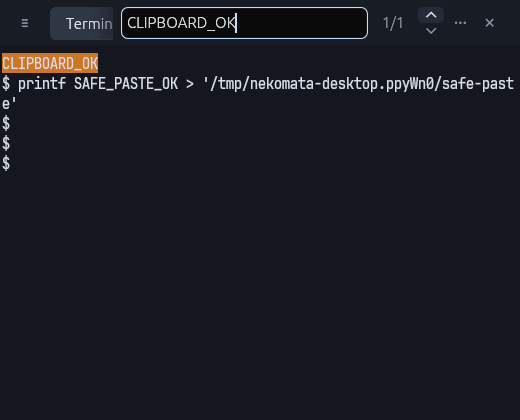
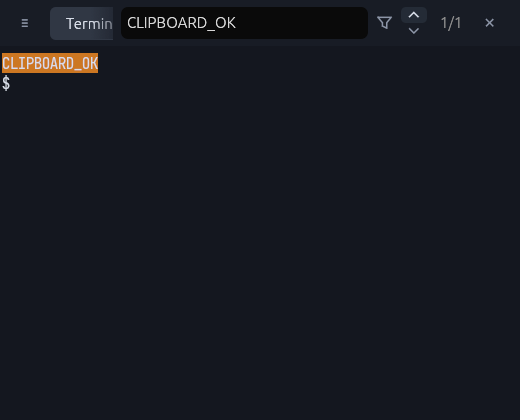
feat: group search filters beside the query
Use a funnel icon to make the search conditions discoverable and order the toolbar as query, filter, navigation, result index and close. Preserve stacked chevrons and hover-only button backgrounds.

diff --git a/src/app.rs b/src/app.rs
@@ -873,6 +873,23 @@ impl App {
             if entry.lost_focus() && ui.input(|input| input.key_pressed(egui::Key::Enter)) {
                 navigate = Some(!ui.input(|input| input.modifiers.shift));
             }
+            let options = search_icon_button(ui, SearchIcon::Options);
+            egui::Popup::menu(&options).show(|ui| {
+                ui.checkbox(&mut pane.search_ignore_case, "Ignore case");
+                ui.checkbox(&mut pane.search_regex, "Regex");
+            });
+            ui.add_enabled_ui(!pane.search_query.is_empty(), |ui| {
+                ui.vertical(|ui| {
+                    ui.set_width(24.0);
+                    ui.spacing_mut().item_spacing.y = 0.0;
+                    if search_icon_button(ui, SearchIcon::Previous).clicked() {
+                        navigate = Some(false);
+                    }
+                    if search_icon_button(ui, SearchIcon::Next).clicked() {
+                        navigate = Some(true);
+                    }
+                });
+            });
             {
                 let search = pane.session.search.search.lock().unwrap();
                 let response = ui.add_sized(
@@ -897,23 +914,6 @@ impl App {
                     response.on_hover_text("Searching…");
                 }
             }
-            ui.add_enabled_ui(!pane.search_query.is_empty(), |ui| {
-                ui.vertical(|ui| {
-                    ui.set_width(24.0);
-                    ui.spacing_mut().item_spacing.y = 0.0;
-                    if search_icon_button(ui, SearchIcon::Previous).clicked() {
-                        navigate = Some(false);
-                    }
-                    if search_icon_button(ui, SearchIcon::Next).clicked() {
-                        navigate = Some(true);
-                    }
-                });
-            });
-            let options = search_icon_button(ui, SearchIcon::Options);
-            egui::Popup::menu(&options).show(|ui| {
-                ui.checkbox(&mut pane.search_ignore_case, "Ignore case");
-                ui.checkbox(&mut pane.search_regex, "Regex");
-            });
             close |= search_icon_button(ui, SearchIcon::Close).clicked();
         });
         if close {
@@ -1501,10 +1501,18 @@ fn search_icon_button(ui: &mut egui::Ui, icon: SearchIcon) -> egui::Response {
             ));
         }
         SearchIcon::Options => {
-            for x in [-4.0, 0.0, 4.0] {
-                ui.painter()
-                    .circle_filled(center + Vec2::new(x, 0.0), 1.0, color);
-            }
+            ui.painter().add(egui::Shape::line(
+                vec![
+                    center + Vec2::new(-6.0, -5.0),
+                    center + Vec2::new(6.0, -5.0),
+                    center + Vec2::new(2.0, 0.0),
+                    center + Vec2::new(2.0, 5.0),
+                    center + Vec2::new(-2.0, 3.0),
+                    center + Vec2::new(-2.0, 0.0),
+                    center + Vec2::new(-6.0, -5.0),
+                ],
+                stroke,
+            ));
         }
         SearchIcon::Close => {
             for direction in [-1.0, 1.0] {

diff --git a/README.md b/README.md
@@ -80,7 +80,7 @@ flake の対象は `aarch64-darwin`、`x86_64-linux`、`aarch64-linux` です。
 
 ## スクロールバック検索
 
-`≡` → `Find in scrollback`、コマンドパレット、または検索ショートカットで、タブバー右側に検索欄を開きます。文字列を入力して Enter または「⌄」で検索し、同じ検索語・条件のまま操作すると次の結果へ進みます。「⌃」または Shift+Enter で前の結果へ戻ります。「⋯」の詳細メニューに `Ignore case`（初期オン）と `Regex`（初期オフ）があります。条件を変更すると次の移動操作で検索し直します。
+`≡` → `Find in scrollback`、コマンドパレット、または検索ショートカットで、タブバー右側に検索欄を開きます。文字列を入力して Enter または「⌄」で検索し、同じ検索語・条件のまま操作すると次の結果へ進みます。「⌃」または Shift+Enter で前の結果へ戻ります。検索欄の右には、フィルター、上下のナビゲーター、件数、閉じるボタンの順で並びます。漏斗型のフィルターアイコンの詳細メニューに `Ignore case`（初期オン）と `Regex`（初期オフ）があります。条件を変更すると次の移動操作で検索し直します。
 
 検索結果は最大1,000件、応答の合計は1MiBまでです。件数の末尾の `+` は結果が制限されたことを示します。検索エラーは「!」にカーソルを重ねると確認できます。検索中は入力を端末へ送らず、Escape または「×」で検索欄と強調表示を閉じます。
 
